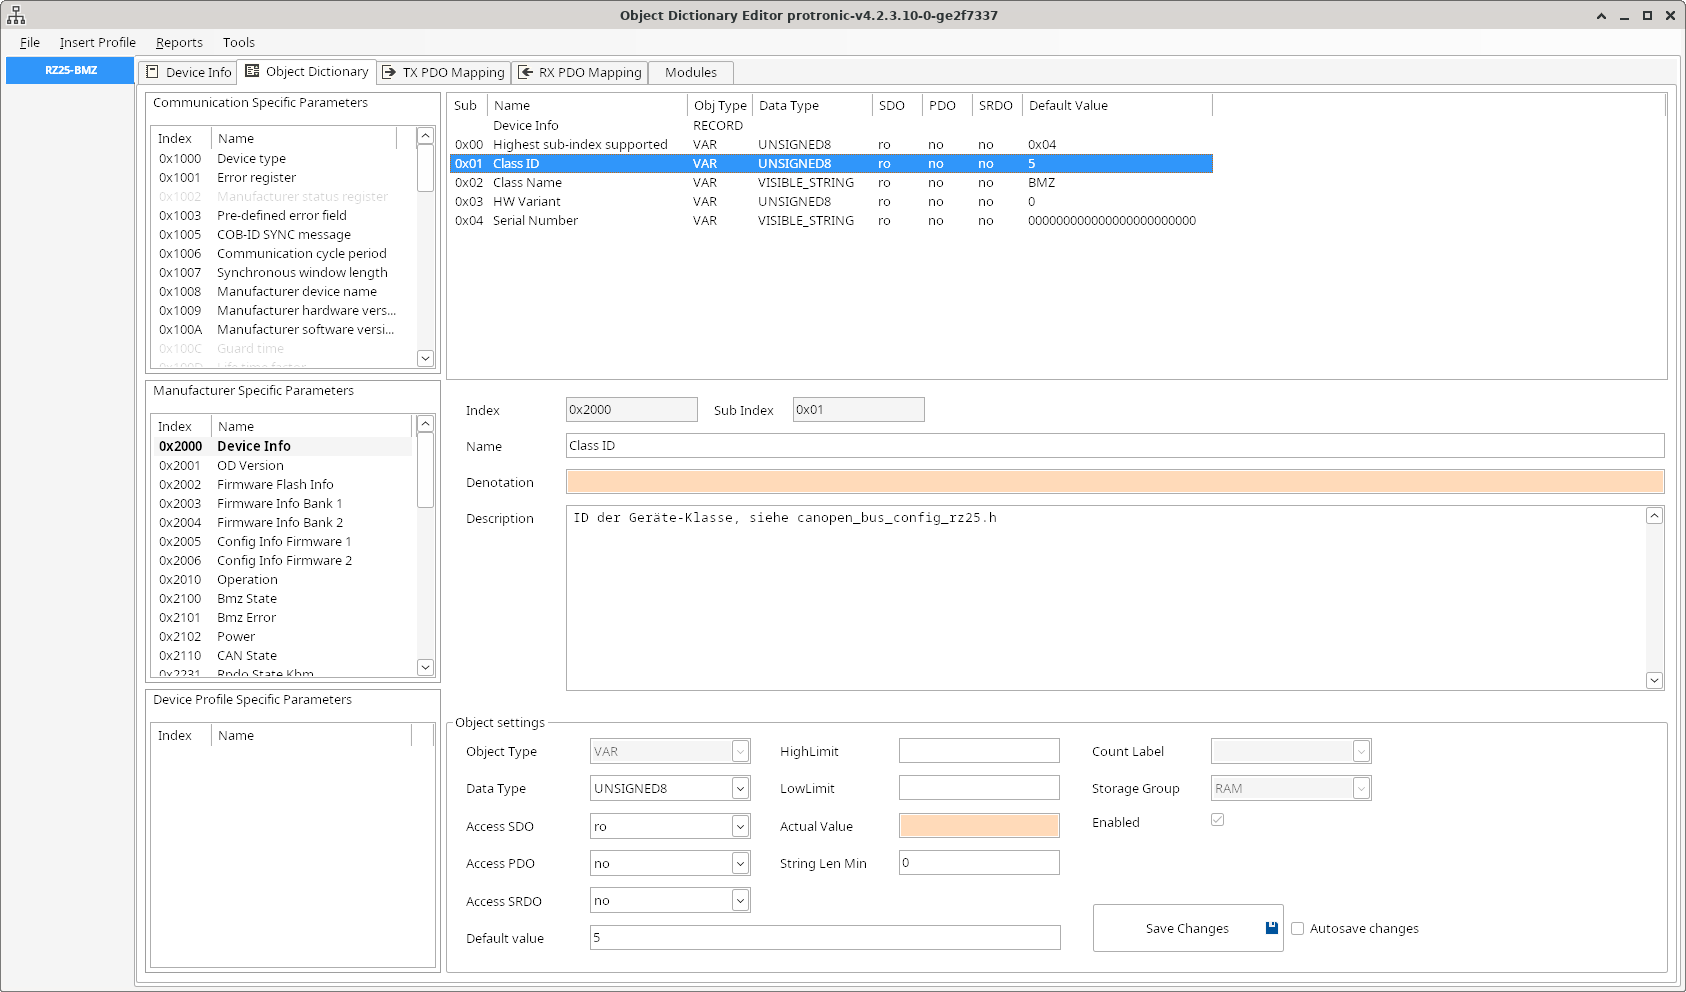
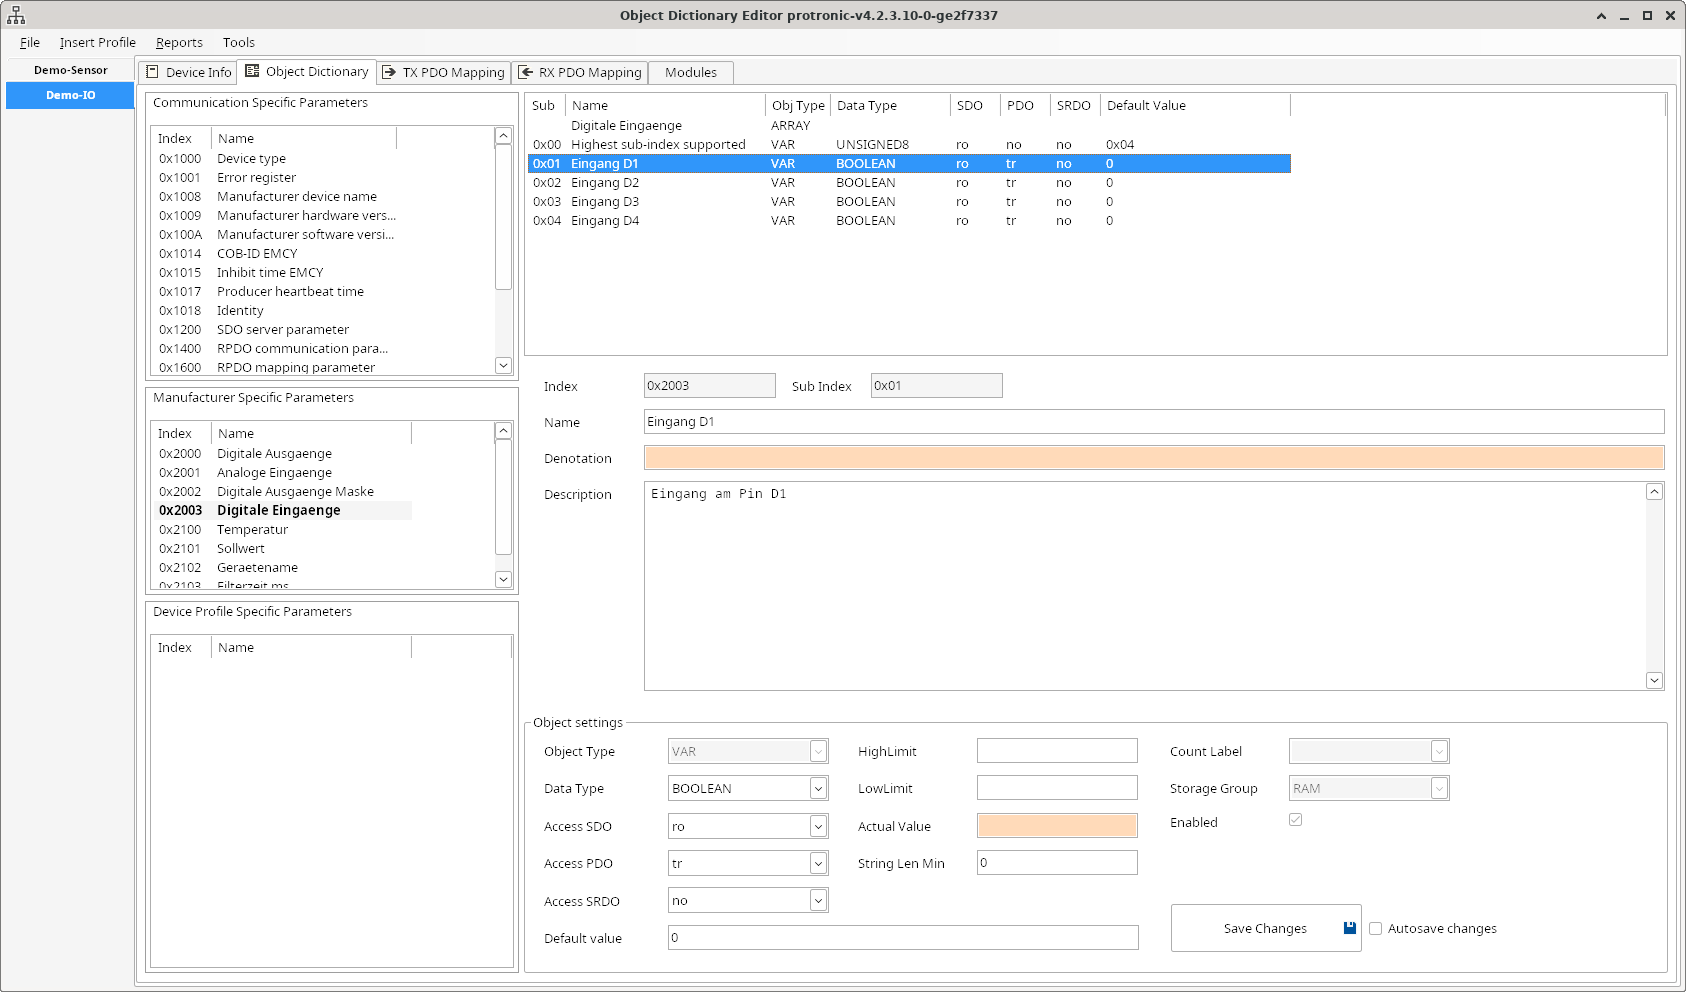
Update Layout in AGENTS.md

diff --git a/webapp/AGENTS.md b/webapp/AGENTS.md
@@ -33,5 +33,18 @@ Dateiinformationen, Objektverzeichnis, Baudraten und Netzwerkmerkmalen bleiben d
 Die Web-Oberfläche soll den CANopenEditor EDSEditorGUI mit der älteren WinForms-Oberfläche nachbilden.
 Alle Beschriftungen innerhalb der Oberflächen bleiben in ihrer Originalsprache englisch und werden nicht übersetzt.
 
-Vorgegebens Layout für den Tab "Object Dictionary": 
-![Tab Object Dictionary](/home/frab/WORK/__Projekte__/RZ25/CANopenEditor_protronic/webapp/images/Template_Tab_Object_Dictionary.png)
+### Layout
+
+Die folgenden Bilder zeigen das vorgegebene Layout für die einzelnen Tabs:
+
+Tab "Device Info" 
+![Tab Device Info](images/Template_Tab_Device_Info.png)
+
+Tab "Object Dictionary"
+![Tab Object Dictionary](./images/Template_Tab_Object_Dictionary.png)
+
+Tab "TX PDO Mapping"
+![Tab TX PDO Mapping](./images/Template_Tab_TX_PDO_Mapping.png)
+
+Tab "RX PDO Mapping"
+![Tab RX PDO Mapping](./images/Template_Tab_RX_PDO_Mapping.png)
